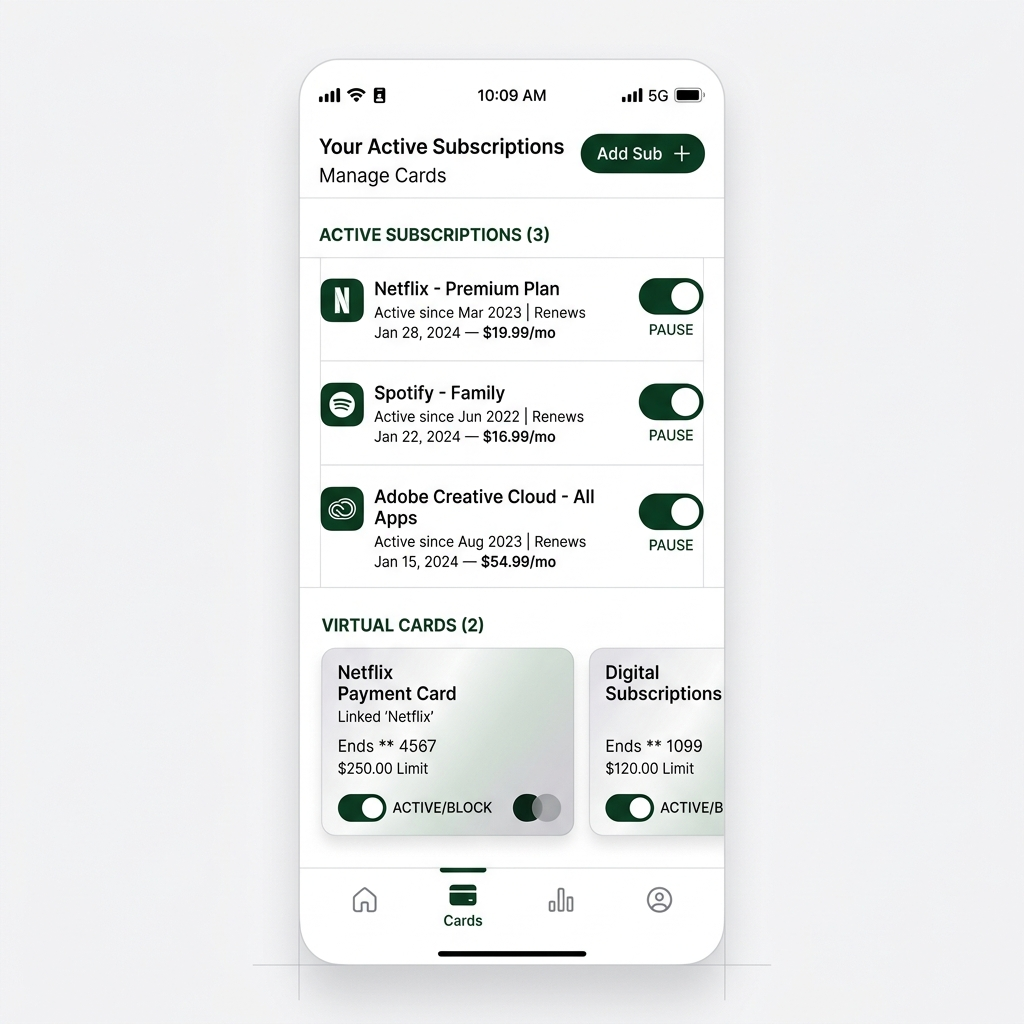
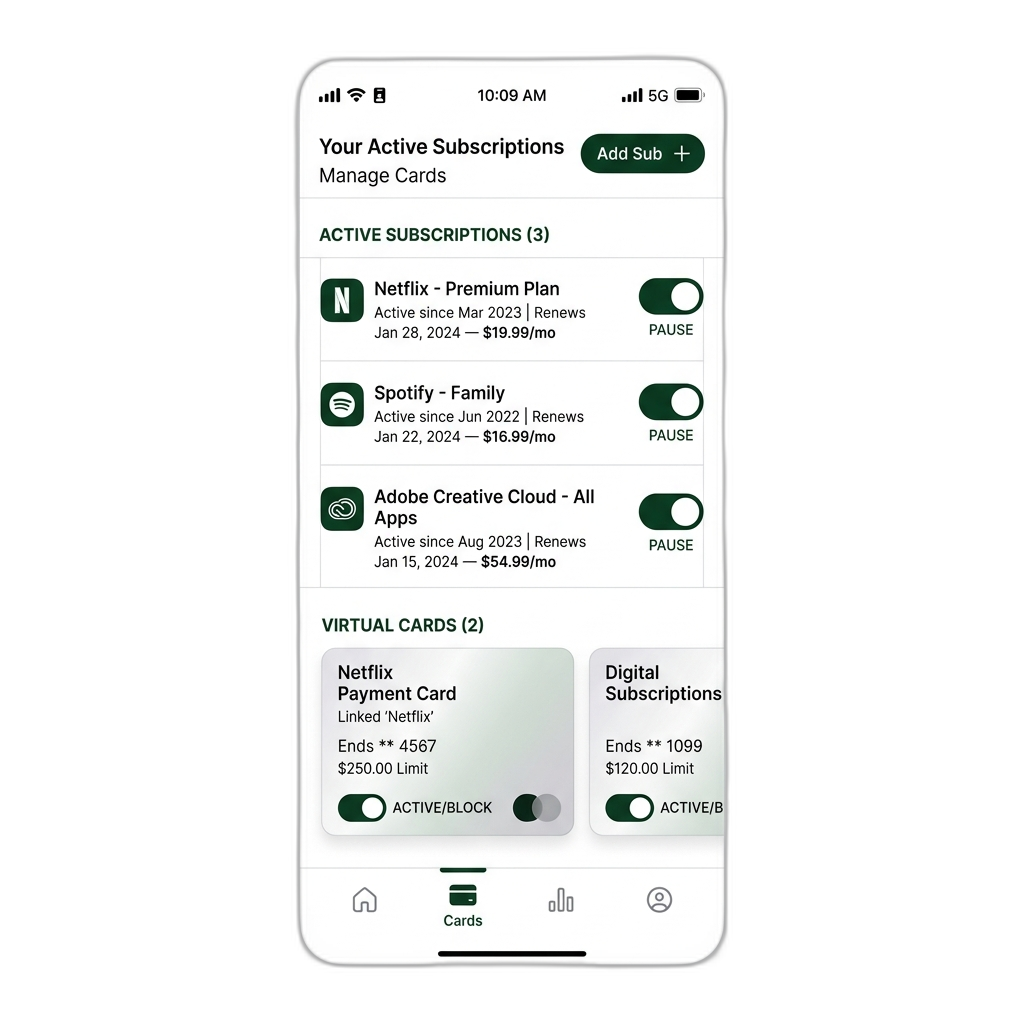
Use AI to cleanly remove background from original high-res mockups provided in repo, abandon low-res chat uploads

Changed region(s): [[0.2812, 0.0625, 0.7188, 1.0], [0.3125, 0.0312, 0.625, 0.0625], [0.6562, 0.0312, 0.6875, 0.0625]]

diff --git a/src/components/SecuritySection.tsx b/src/components/SecuritySection.tsx
@@ -61,10 +61,10 @@ const SecuritySection = () => {
         <div className="grid lg:grid-cols-2 gap-8 items-center">
           <div className="relative w-full h-[600px] flex justify-center items-center rounded-3xl bg-secondary/5 overflow-hidden">
              <Image 
-               src="/detect_screen.png"
+               src="/how-to-start.png"
                alt="Gatekipa Protected Money Vault - Detect Screen"
                fill
-               className="object-contain p-4 drop-shadow-2xl mix-blend-multiply"
+               className="object-contain p-4 drop-shadow-2xl"
              />
           </div>
 

diff --git a/src/components/HowItWorksSection.tsx b/src/components/HowItWorksSection.tsx
@@ -92,10 +92,10 @@ const HowItWorksSection = () => {
 
           <div className="relative w-full h-[600px] flex justify-center items-center rounded-3xl bg-gradient-to-b from-primary/5 to-transparent overflow-hidden">
              <Image 
-               src="/create_card_screen.png"
+               src="/protected-money.png"
                alt="Gatekipa App - Create a card interface"
                fill
-               className="object-contain p-4 drop-shadow-2xl mix-blend-multiply"
+               className="object-contain p-4 drop-shadow-2xl"
              />
           </div>
         </div>

diff --git a/src/components/FeaturesSection.tsx b/src/components/FeaturesSection.tsx
@@ -107,7 +107,7 @@ const FeaturesSection = () => {
 
           <div className="relative w-full h-[600px] flex justify-center items-center rounded-3xl bg-gradient-to-t from-primary/5 to-transparent overflow-hidden">
              <Image 
-               src="/vault_balance.png"
+               src="/built-to-control.png"
                alt="Gatekipa Built to Control - Vault Balance"
                fill
                className="object-contain p-4 drop-shadow-2xl"
